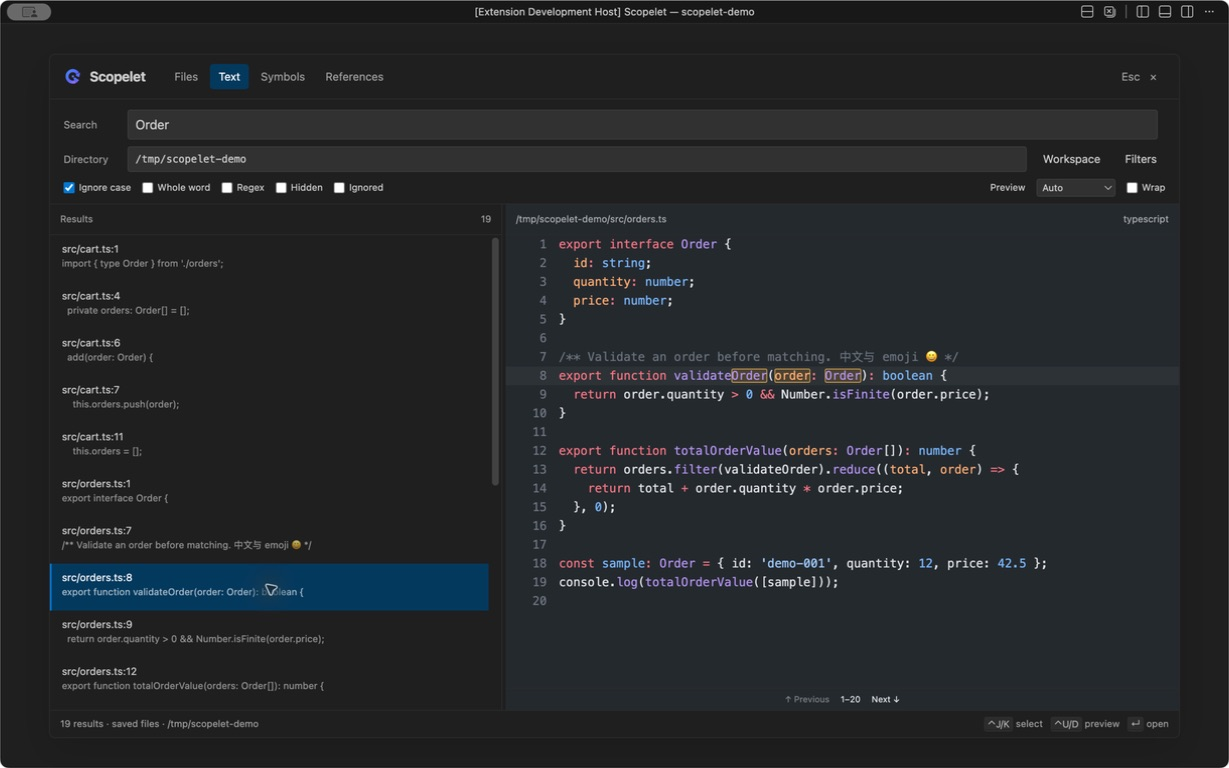
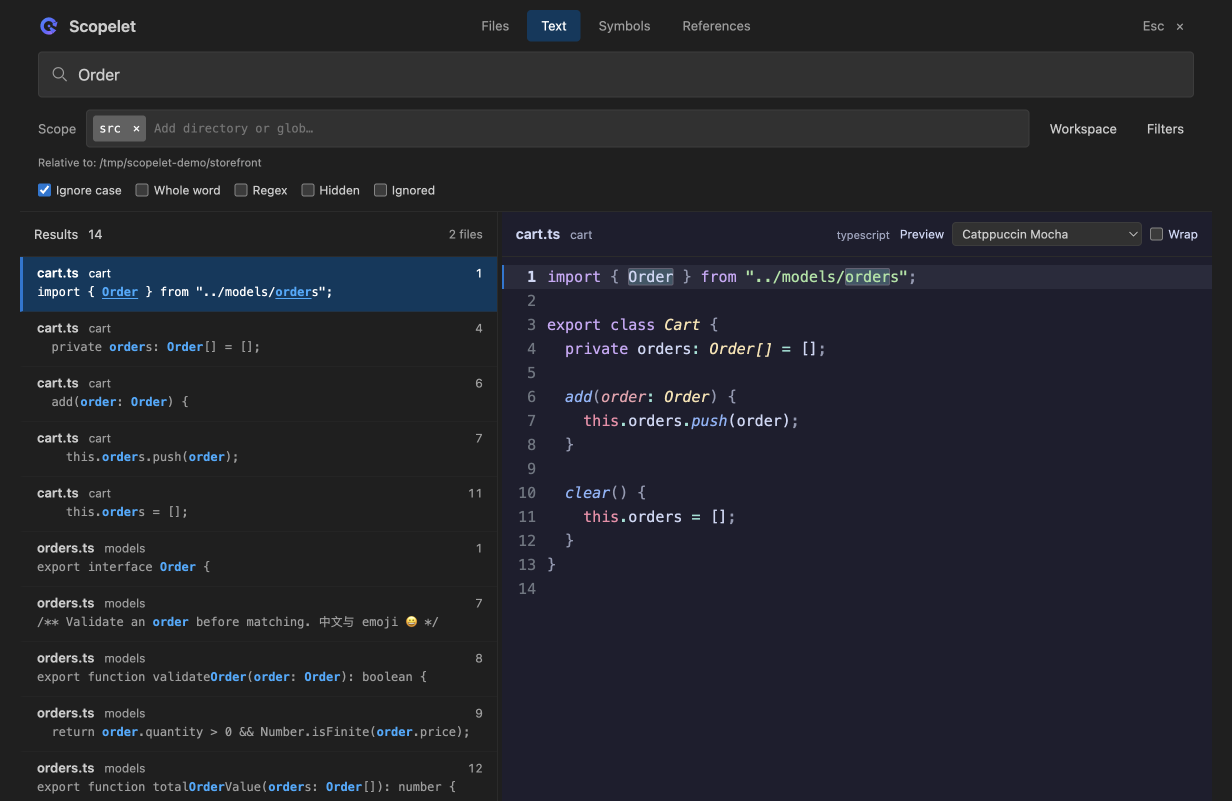
docs: refresh Scopelet 0.1.8 guides and animated demos
Document multi-directory and glob scopes, theme selection, independent font sizes, and compact defaults in English and Chinese. Update the changelog, privacy notice, screenshots, and recorded search and theme demos.

diff --git a/README.md b/README.md
@@ -12,9 +12,9 @@ Find a file, search its contents, inspect a symbol, or follow a reference—then
 
 This page describes the VS Code distribution of Scopelet. [Public documentation and issue reports](https://github.com/yanke1311/scopelet-public) are hosted in a documentation-and-artwork repository; the implementation source is currently private.
 
-![Scopelet searching TypeScript files, with matching results on the left and highlighted code on the right](assets/screenshots/search-dark.png)
+![Scopelet: type a query, navigate matching code, and narrow the scope with a glob](assets/demos/search.gif)
 
-*Text search and syntax-highlighted preview in VS Code, using a small example project.*
+*Recorded in VS Code with a small example project: search, keyboard navigation, and Scope/glob filtering. [Static overview](assets/screenshots/search-dark.png).*
 
 <details>
 <summary>Light theme</summary>
@@ -26,7 +26,7 @@ This page describes the VS Code distribution of Scopelet. [Public documentation 
 ## Features
 
 - **Four search modes:** fuzzy file search, text search, document symbols, and references at the cursor.
-- **Search your scope:** directory selection, include/exclude globs, case sensitivity, whole-word and regular-expression options, plus multiline literal search.
+- **Search your scope:** multiple directory/glob chips, grouped scope history, path completion, collapsible Include/Exclude chips, case sensitivity, whole-word and regular-expression options, plus multiline literal search.
 - **Preview before opening:** syntax highlighting, match markers, selectable preview themes, line wrapping, and bounded previews for large files and long lines.
 - **Stay on the keyboard:** navigate results, scroll the preview, open a match, or return to the original editor selection. Search history and preview preferences are saved per workspace.
 
@@ -36,7 +36,7 @@ Scopelet requires an editor with **VS Code API 1.126.0 or later** and a trusted 
 
 The tested environments are **macOS on Apple Silicon**, plus **Windows and WSL** tested by the maintainer. Recorded macOS validation includes VS Code 1.136.2. Linux outside WSL, Intel Macs, other architectures, SSH and containers still need validation.
 
-The extension identifier is **`ke-yan.scopelet`**. The first Marketplace release is awaiting approval; there is no approved Marketplace release yet. Once available, install **Scopelet** from the VS Code Extensions view. Prepared packages target these extension hosts:
+The extension identifier is **`ke-yan.scopelet`**. Install a matching VSIX through **Extensions: Install from VSIX…**, or find Scopelet in the VS Code Extensions view when the release is available on the Marketplace. Packages target these extension hosts:
 
 | Extension host | Package target |
 | --- | --- |
@@ -52,6 +52,8 @@ Early trial builds used `scopelet-local.scopelet`. That is a different extension
 2. Open the Command Palette and run **Scopelet: Search Text** or **Scopelet: Find Files**.
 3. Enter a query, move through the results, and inspect the preview.
 4. Press **Enter** to open the selected result, or **Esc** to return to your original editor.
+
+Scope accepts multiple directories or glob patterns, such as `src` and `packages/*/src/**`. Relative entries and filters use the displayed **Relative to** base. Use Enter in Scope or **Apply** to apply changes; Include/Exclude use Enter to add a chip and Ctrl+Enter to apply. Multiline paste preserves brace expressions such as `*.{ts,tsx}`. Filters stay collapsed until needed, and the existing directory-history clear command also clears saved scope groups.
 
 | Command | What it does |
 | --- | --- |
@@ -122,16 +124,28 @@ Merge these into your existing VSCodeVim settings, replacing any conflicting map
 
 Search for **Scopelet** in Settings. Common settings, shown with their defaults:
 
+The default layout uses compact spacing similar to 0.1.7, with 12px result names and 11px secondary text.
+
 ```json
 {
   "scopelet.maxResults": 2000,
   "scopelet.maxFileCandidates": 100000,
+  "scopelet.ui.fontSize": 12,
+  "scopelet.preview.fontSize": 0,
   "scopelet.preview.theme": "auto",
   "scopelet.preview.wordWrap": false
 }
 ```
 
-Preview themes: `auto`, `github-light`, `github-dark`, `nord`, and `monokai`. Per-workspace choices made in the panel take precedence over the defaults; use **Scopelet: Reset Preview Preferences** to reset them. Command Palette actions also clear search history, directory history, or both.
+`scopelet.ui.fontSize` adjusts interface text (11–20px, default 12). `scopelet.preview.fontSize` adjusts code independently (0 follows `editor.fontSize`; positive values are clamped to 8–40px). For a compact preview, try 12. Close and reopen Scopelet after changing either setting; your editor font is unchanged.
+
+Choose from **65 bundled preview themes plus Auto**, including all four **Catppuccin** flavors (Latte, Frappé, Macchiato, Mocha), Dracula, Tokyo Night, Gruvbox, Rosé Pine, Kanagawa, Ayu, GitHub, Nord, Monokai, Solarized, Material and more. The preview selector groups themes by dark/light appearance; **Scopelet: Select Preview Theme** opens a searchable picker.
+
+![Preview theme switching between Catppuccin Mocha, Catppuccin Latte, and Tokyo Night](assets/demos/themes.gif)
+
+*Change the preview palette without changing your editor theme.*
+
+Themes are included in the VSIX and loaded individually from local files when selected—no CDN or additional theme extension is required. Auto follows the editor's light/dark appearance; high-contrast mode prioritizes readability. Per-workspace choices made in the panel take precedence over the defaults; use **Scopelet: Reset Preview Preferences** to reset them. Command Palette actions also clear search history, directory history, or both.
 
 Panel shortcuts can be customized through `scopelet.keybindings`, for example `{ "next": "ctrl+n", "previous": "ctrl+p" }`. The Settings descriptions list the available actions and optional match colors.
 

diff --git a/README.zh-CN.md b/README.zh-CN.md
@@ -12,9 +12,9 @@
 
 本页面介绍 Scopelet 的 VS Code 发行版本。[公开文档与问题反馈仓库](https://github.com/yanke1311/scopelet-public)仅包含文档和图片，插件实现源码当前保持私有。
 
-![Scopelet 在 TypeScript 示例项目中搜索，左侧列出结果，右侧显示语法高亮预览](assets/screenshots/search-dark.png)
+![Scopelet 输入查询、键盘浏览命中代码，再用 Scope/glob 收窄范围](assets/demos/search.gif)
 
-*VS Code 中的真实文本搜索与语法高亮预览，使用小型示例项目。*
+*在 VS Code 示例项目中录制：搜索、键盘导航和 Scope/glob 筛选。[静态概览](assets/screenshots/search-dark.png)。*
 
 <details>
 <summary>浅色主题</summary>
@@ -26,7 +26,7 @@
 ## 功能
 
 - **四种搜索模式**：文件名模糊搜索、文本搜索、当前文档符号、光标处符号引用。
-- **控制搜索范围**：目录选择、包含/排除 glob、大小写、整词、正则选项，以及多行字面搜索。
+- **控制搜索范围**：多目录/glob chip、范围组合历史、路径补全、可折叠的 Include/Exclude chip，以及大小写、整词、正则和多行字面搜索。
 - **先预览再打开**：语法高亮、命中标记、独立预览主题、换行，以及大文件和超长行的有界预览。
 - **键盘优先**：选择结果、滚动预览、打开命中位置、恢复来源编辑器选区；按工作区保存搜索历史与预览偏好。
 
@@ -36,7 +36,7 @@
 
 当前已测试环境包括 **Apple Silicon Mac**，以及维护者已测试的 **Windows 和 WSL**。有记录的 macOS 验证包括 VS Code 1.136.2。WSL 以外的 Linux、Intel Mac、其他架构、SSH 与容器仍需验证。
 
-扩展标识为 **`ke-yan.scopelet`**。首次 Marketplace 发布仍待审核，目前尚无审核通过的市场版本。上线后可在 VS Code 扩展面板安装 **Scopelet**。已准备的安装包针对以下扩展宿主：
+扩展标识为 **`ke-yan.scopelet`**。可通过 **Extensions: Install from VSIX…** 安装对应平台的 VSIX；市场版本可用后，也可在 VS Code 扩展面板搜索安装 Scopelet。安装包针对以下扩展宿主：
 
 | 扩展宿主 | 安装包目标 |
 | --- | --- |
@@ -52,6 +52,8 @@
 2. 在命令面板运行 **Scopelet: Search Text** 或 **Scopelet: Find Files**。
 3. 输入查询，选择结果并查看预览。
 4. 按 **Enter** 打开结果，或按 **Esc** 返回原编辑器。
+
+Scope 可添加多个目录或 glob，例如 `src` 和 `packages/*/src/**`。相对条目与筛选使用界面显示的 **Relative to** 基准。Scope 内按 Enter 或点击 **Apply** 应用修改；Include/Exclude 内按 Enter 添加 chip，Ctrl+Enter 应用筛选。粘贴多行时保留 `*.{ts,tsx}` 这类逗号表达式。Filters 默认折叠；原来的目录历史清理命令也会清理范围组合历史。
 
 | 命令 | 用途 |
 | --- | --- |
@@ -122,16 +124,28 @@
 
 在设置中搜索 **Scopelet**。常用配置及其默认值：
 
+默认布局采用接近 0.1.7 的紧凑间距，结果文件名为 12px，辅助文字为 11px。
+
 ```json
 {
   "scopelet.maxResults": 2000,
   "scopelet.maxFileCandidates": 100000,
+  "scopelet.ui.fontSize": 12,
+  "scopelet.preview.fontSize": 0,
   "scopelet.preview.theme": "auto",
   "scopelet.preview.wordWrap": false
 }
 ```
 
-预览主题支持 `auto`、`github-light`、`github-dark`、`nord`、`monokai`。面板中按工作区保存的选择优先于默认值；通过 **Scopelet: Reset Preview Preferences** 恢复默认。命令面板也提供清理搜索历史、目录历史或全部历史的操作。
+`scopelet.ui.fontSize` 调整界面字号（11–20px，默认 12）；`scopelet.preview.fontSize` 独立调整代码预览字号（0 跟随 `editor.fontSize`，正数限制在 8–40px）。希望预览更紧凑可以设为 12。修改后关闭并重新打开 Scopelet 生效，不会改变编辑器字号。
+
+提供 **65 套内置预览主题，加上 Auto**，包括 **Catppuccin** 全部四款（Latte、Frappé、Macchiato、Mocha），以及 Dracula、Tokyo Night、Gruvbox、Rosé Pine、Kanagawa、Ayu、GitHub、Nord、Monokai、Solarized、Material 等。预览下拉按明暗分组，也可通过 **Scopelet: Select Preview Theme** 搜索选择。
+
+![预览主题在 Catppuccin Mocha、Catppuccin Latte 和 Tokyo Night 之间切换](assets/demos/themes.gif)
+
+*只改变预览配色，不修改编辑器主题。*
+
+主题随 VSIX 提供，选中时才读取对应本地文件，无需 CDN 或额外安装主题扩展。Auto 跟随编辑器明暗，高对比度模式优先保证可读性。面板中按工作区保存的选择优先于默认值；通过 **Scopelet: Reset Preview Preferences** 恢复默认。命令面板也提供清理搜索历史、目录历史或全部历史的操作。
 
 可用 `scopelet.keybindings` 调整面板内快捷键，例如 `{ "next": "ctrl+n", "previous": "ctrl+p" }`。支持的操作与可选命中配色见设置项说明。
 

diff --git a/CHANGELOG.md b/CHANGELOG.md
@@ -1,5 +1,19 @@
 # Changelog
 
+## 0.1.8
+
+- Add independent interface and preview font sizes, a compact 12px interface default, and font-aware result rows and preview navigation.
+- Bring default control heights, spacing, and secondary text closer to 0.1.7: a 39px search field, 36px pane headings, and 11px secondary text.
+
+- Refine the search-first layout, result hierarchy, inline match highlighting, preview headers, and high-contrast handling.
+- Add editable Scope chips for multiple directories and globs, grouped scope history, path completion, and an explicit relative-path base. Existing directory and search history remain compatible.
+- Replace Include/Exclude text areas with multi-rule chips; keep filters collapsed by default and show applied/pending state. Preserve comma expressions and multiline paste.
+- Preserve explicit ignored directories when combining scopes, deduplicate overlapping file paths, and establish a missing base when selecting a directory.
+- Expand preview choices to all 65 bundled Shiki themes plus Auto, including Catppuccin's four flavors. Group the selector by appearance and provide searchable names in the Command Palette.
+- Load theme files locally on demand, cache them, reject stale theme responses, and include third-party theme license notices.
+- Improve empty-state actions, result-limit feedback, narrow-window layouts, and preview navigation for long lines and large files.
+- Replace the README's main screenshot with a recorded search demonstration, add a theme-switching animation, and refresh the light-theme screenshot.
+
 ## 0.1.7
 
 - Clarify the VS Code Marketplace distribution and pending approval status; identify the public repository as documentation and support materials, not implementation source.
